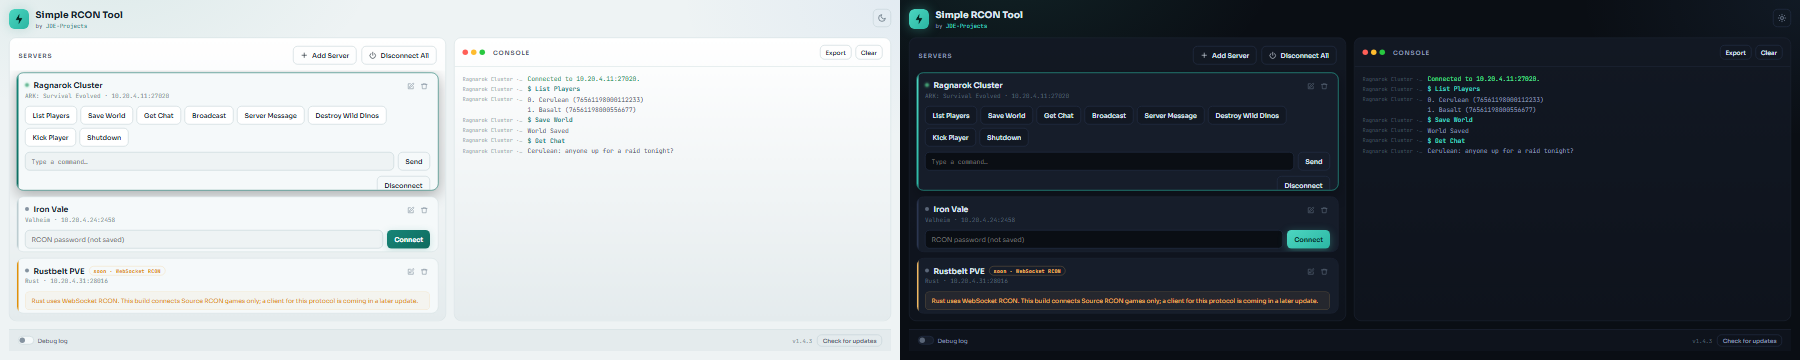
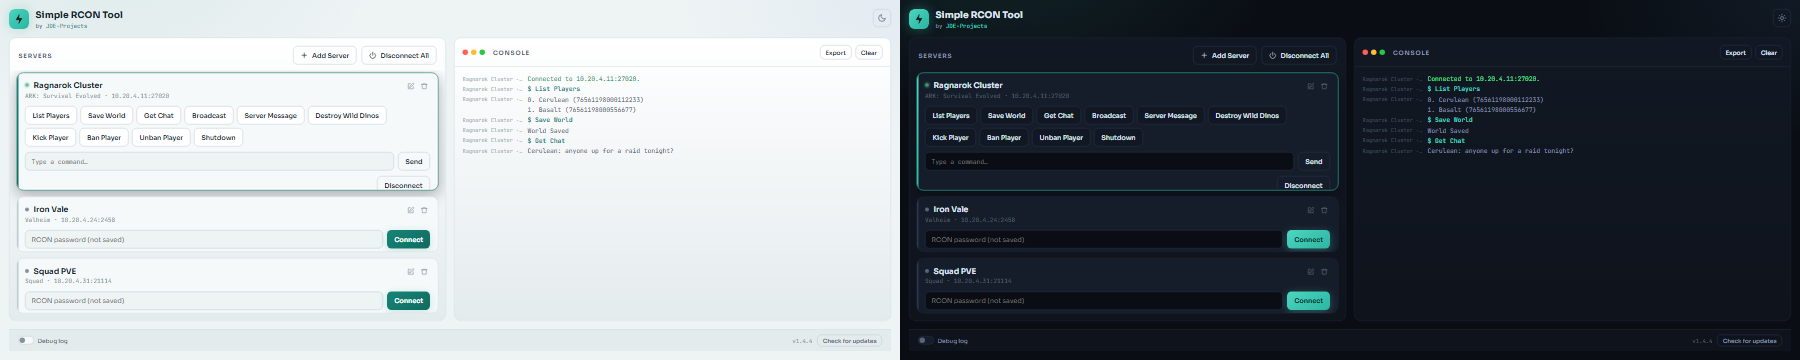
Update README game list and screenshot

diff --git a/README.md b/README.md
@@ -90,37 +90,25 @@ Keep `simple_rcon_tool.py`, `simple_rcon_tool-UI.html`, the `fonts/` folder, `si
 
 ## Supported games
 
-These connect today over Source RCON:
+Tested against a real dedicated server of the version listed.
 
-- ARK: Survival Evolved
-- ARK: Survival Ascended
-- Conan Exiles
-- Palworld
-- Minecraft (Java)
-- Counter-Strike 2
-- Project Zomboid
-- Factorio
-- Squad
-- Garry's Mod
-- Eco (test entry, loosely Source-compatible)
-- Windrose (requires the community WindroseRCON mod)
-- Valheim (requires the ValheimRcon mod, crossplay off)
+- ARK: Survival Ascended 94.29
+- ARK: Survival Evolved 361.7
+- Conan Exiles (server build 25792439)
+- Counter-Strike 2 1.41.9.1
+- Eco (server build 25802357)
+- Garry's Mod (server build 25375525)
+- Minecraft (Java) 26.3
+- Palworld 1.0.5.102999
+- Project Zomboid 42.21.0
+- Squad (server build 25763436)
+- Valheim (server build 25730807) with the ValheimRcon 1.6.2 mod
 
 A few quirks worth knowing:
 
 - **Palworld** commands are case-sensitive, and Broadcast cannot contain spaces (the app auto-converts spaces to underscores).
 - **Eco** kick and ban take a `Name,Reason` value.
-- **Valheim** and **Windrose** need their RCON mod loaded on the server; the editor shows that note when you pick them.
-
-## Roadmap
-
-The catalog also lists games that use other protocols. They appear in the picker but are gated at connect until their client is added:
-
-- **Rust** (WebSocket RCON)
-- **7 Days to Die** (Telnet)
-- **Soulmask** (Telnet)
-- **DayZ** (BattlEye RCON)
-- **Satisfactory** (HTTPS API)
+- **Valheim** needs the ValheimRcon mod loaded on the server, with crossplay off; the editor shows that note when you pick it.
 
 ## Security and privacy
 
